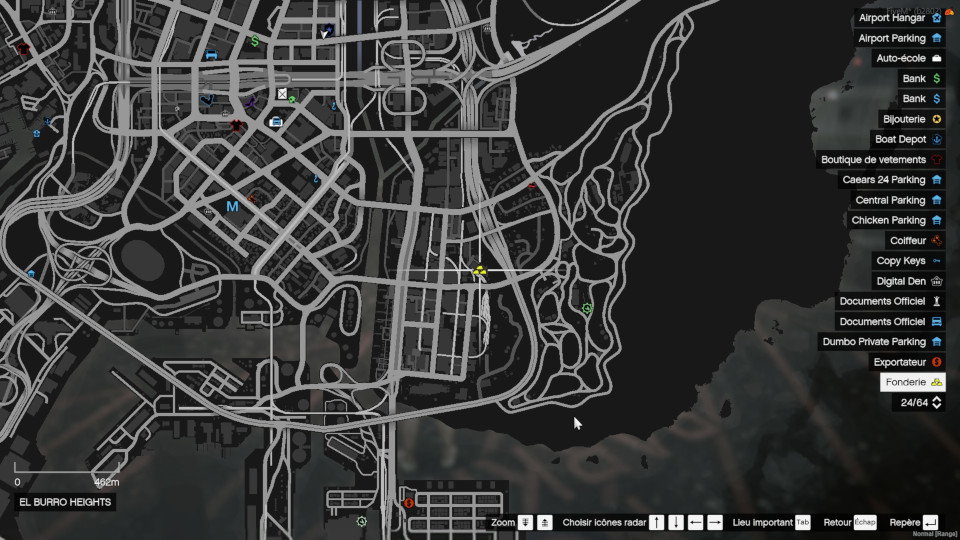
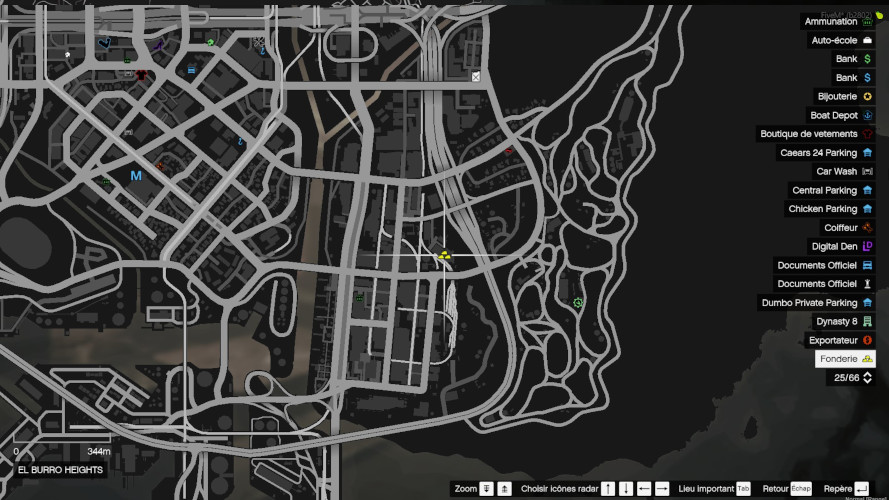
ajout des blips et suppression images dans guide du débutant

diff --git a/html/infos.html b/html/infos.html
@@ -57,65 +57,59 @@
           <p>
             La carte d'identité est obligatoire, ne pas l'avoir sur soi lors d'un contrôle de police
             peut mener à une amende. <br />Vous pouvez la récupérer au
-            <span class="important">Gouvernement</span>.
+            <span class="important">Gouvernement</span
+            ><img src="../style/images/tuto/gouvernement.png" alt="blip du Gouvernement" />.
           </p>
-
-          <!-- <img src="../style/images/tuto/cni.jpg" alt="Récupérer sa carte d'identité" /> -->
-
           <h4>Acheter un téléphone</h4>
-          <p>Vous pouvez acheter un téléphone à la boutique "Digital Den" au niveau de la plage.</p>
-
-          <img src="../style/images/tuto/tel.jpg" alt="Acheter un téléphone" />
-
+          <p>
+            Vous pouvez acheter un téléphone à la boutique
+            <span class="important">"Digital Den"</span>
+            <img src="../style/images/tuto/shop.png" alt="blip d'une boutique" />.
+          </p>
           <h4>Trouver un petit boulot</h4>
-          <p>Vous pouvez vous faire de l'argent grâce à la mine ou au centre de recyclage.</p>
           <h5>Miner & fondre les minerais</h5>
           <p>
-            Vous pouvez trouver des ressources à la mine puis fondre les minerais à la fonderie.
+            Vous pouvez trouver des ressources à la <span class="important">mine</span>
+            <img src="../style/images/tuto/mine.png" alt="blip de la mine" /> puis fondre les
+            minerais à la <span class="important">fonderie</span>
+            <img src="../style/images/tuto/fonderie.png" alt="blip de la fonderie" /> .
           </p>
-          <figure>
-            <img src="../style/images/tuto/mine.jpg" alt="Travailler à la mine" />
-            <figcaption>Travailler à la mine</figcaption>
-          </figure>
-          <figure>
-            <img src="../style/images/tuto/fonderie.jpg" alt="Aller à la fonderie" />
-            <figcaption>Fondre les minerais à la fonderie</figcaption>
-          </figure>
-          <figure>
-            <img src="../style/images/tuto/recyclage.jpg" alt="centre de recyclage" />
-            <figcaption>Travailler au centre de recyclage</figcaption>
-          </figure>
+          <h5>Recycler des matériaux</h5>
+          <p>
+            Vous pouvez également vous faire de l'argent en recyclant des matériaux.
+            <br />Dans un premier temps il vous faudra <span class="important">recycler</span>
+            <img src="../style/images/tuto/recyclage.png" alt="blip du lieu recyclage" /> des
+            matériaux. <br />Ensuite, vous devrez les recycler au
+            <span class="important">centre de recyclage</span>
+            <img
+              src="../style/images/tuto/traitement-recyclage.png"
+              alt="blip du lieu 'traitement de recyclage'"
+            />. <br />Enfin, vous pourrez vendre les matériaux recyclés à l'exportateur
+            <img src="../style/images/tuto/exportateur.png" alt="blip du lieu 'exportateur'" />
+          </p>
+
           <h4>Se restaurer</h4>
           <p>
-            Vous pouvez vous restaurer (acheter à boire et à manger) au restaurant le Horny's
-            Burgers ou dans les supérettes.
+            Vous pouvez vous restaurer (acheter à boire et à manger) au restaurant le
+            <span class="important">Horny's Burgers</span>
+            <img src="../style/images/tuto/hornys.png" alt="blip du Horny's Burgers" /> ou dans les
+            supérettes <img src="../style/images/tuto/shop.png" alt="blip d'une boutique" />.
           </p>
-          <h5>Restaurant Horny's Burgers</h5>
-          <figure>
-            <img src="../style/images/tuto/resto.jpg" alt="Horny's Burgers, restaurant" />
-            <figcaption>Restaurant Horny's Burgers</figcaption>
-          </figure>
-          <h5>Supérettes</h5>
-          <p>Aller aux supérettes pour acheter des sandwiches et de l'eau.</p>
           <h4>Se déplacer</h4>
           <p>
-            Pour vous déplacer vous pouvez louer un véhicule, prendre un taxi ou acheter un véhicule
-            (en ayant passé le permis, évidemment 😉)
+            Pour vous déplacer vous pouvez :
+            <br />-
+            <span class="important">louer un véhicule</span>
+            <img src="../style/images/tuto/rental.png" alt="blip des locations de véhicule" />,
+            <br />- prendre un <span class="important">taxi</span>
+            <img src="../style/images/tuto/taxi.png" alt="blip des taxis" />
+            <br />
+            - ou acheter un véhicule au <span class="important">concessionnaire</span>
+            <img src="../style/images/tuto/concessionnaire.png" alt="blip du concessionnaire" /> (en
+            ayant passé le <span class="important">permis</span>
+            <img src="../style/images/tuto/auto-ecole.png" alt="blip de l'Auto-école" /> évidemment
+            <span class="smiley">😉</span>)
           </p>
-          <h5>Louer un véhicule</h5>
-          <p>Point de location</p>
-          <h5>Taxi</h5>
-          <p>Appeler un taxi depuis le téléphone</p>
-          <h5>Passer son permis</h5>
-          <figure>
-            <img src="../style/images/tuto/permis.jpg" alt="Auto-école" />
-            <figcaption>Passer son permis</figcaption>
-          </figure>
-          <h5>Acheter un véhicule</h5>
-          <figure>
-            <img src="../style/images/tuto/concess.jpg" alt="Concessionnaire" />
-            <figcaption>Acheter un véhicule</figcaption>
-          </figure>
           <h4>Trouver un emploi</h4>
           <p>
             Pour trouver un emploi durable, il suffit de consulter les
@@ -123,7 +117,8 @@
               href="https://discord.com/channels/990254423164993617/996070819103002644"
               title="Salon Discord des disponibilités"
               target="_blank"
-              >recrutements sur Discord</a
+              class="important"
+              >recrutements sur Discord <i class="fa-brands fa-discord"></i></a
             >.
           </p>
           <h3>Rencontrer du monde</h3>
@@ -134,14 +129,10 @@
           </p>
           <h4>Aller à la salle de sport</h4>
           <p>
-            Vous pourrez également et probablement rencontrer du monde dans les différentes salles
-            de sport !
-            <br />Celles-ci sont visibles sur la carte grâce au blip :
+            Vous pourrez également et probablement rencontrer du monde dans les différentes
+            <span class="important">salles de sport</span>
+            <img src="../style/images/tuto/fitness.png" alt="blip des salles de sport" />.
           </p>
-          <figure>
-            <img src="../style/images/tuto/sport.jpg" alt="Salles de sport" />
-            <figcaption>Blip des salles de sport</figcaption>
-          </figure>
         </div>
       </section>
     </main>

diff --git a/html/top-serveur.html b/html/top-serveur.html
@@ -30,16 +30,23 @@
     <main>
       <section id="top-serveur">
         <div class="blur">
+          <h2>À quoi sert Top-Serveur ?</h2>
           <p>
-            Pour voter pour Zephyr Project sur top-serveur, ça se passe
+            Le site Top-Serveur recense les serveurs RP, ce qui permet de faire découvrir aux
+            joueurs les serveurs disponibles les plus appréciés.
+            <br />En votant régulièrement, vous permettez à Zephyr Project d'avoir un meilleur
+            référencement et donc, de pouvoir agrandir notre communauté ! <br />Un clic = un vote...
+            et c'est totalement gratuit ! <span class="smiley">😁</span>
+          </p>
+          <p class="important">Nous avons besoin de vous !</p>
+          <span class="top-serveur">
             <a
-              href="https://top-serveurs.net/gta/frbeqc-zephyr-project-wl-16-staff-actif-dev-constant"
+              href="https://top-serveurs.net/gta/frbeqc-zephyr-project-wl-16-staff-actif-dev-constant+"
               target="_blank"
               title="Voter pour Zephyr Project sur Top-Serveur"
-              >ici</a
+              >Soutenir Zephyr Project !</a
             >
-            !
-          </p>
+          </span>
         </div>
       </section>
       <!-- TODO : Voir avec Tof pour récupérer données top-serveur via API https://api.top-serveurs.net/documentation#api-Serveur-Get_server_s_players_ranking -->
@@ -50,5 +57,6 @@
       </a>
     </footer>
     <script src="../js/common.js"></script>
+    <!-- <script src="../js/top-serveur.js"></script> -->
   </body>
 </html>

diff --git a/style/style.css b/style/style.css
@@ -46,6 +46,13 @@ body main section .blur {
   padding-bottom: 20px;
   border-radius: 10px;
 }
+body main section .blur .important {
+  color: #6a6ad2;
+  text-shadow: 3px 3px 5px #6a6ad2;
+}
+body main section .blur .smiley {
+  text-shadow: none;
+}
 body main section h2 {
   margin-left: 20px;
   font-size: 2em;
@@ -147,11 +154,16 @@ header nav ul li {
   list-style: none;
 }
 
-body main #top-serveur .blur {
-  padding: 0;
-}
-body main #top-serveur .blur p {
-  text-align: center;
+body main section .blur .fa-discord {
+  border: 1px solid #5662f6;
+  background-color: #5662f6;
+  border-radius: 50px;
+  color: white;
+  padding-left: 6px;
+  padding-right: 5px;
+  padding-top: 7px;
+  padding-bottom: 7px;
+  margin-left: 3px;
 }
 
 main #sommaire .blur {
@@ -252,6 +264,16 @@ body main #top-serveur .blur {
 }
 body main #top-serveur .blur p {
   text-align: center;
+}
+body main #top-serveur .blur .top-serveur {
+  display: block;
+  text-align: center;
+  margin: auto;
+  height: 40px;
+  line-height: 40px;
+  width: 250px;
+  border: 1px solid #7fd6f9;
+  border-radius: 50px;
 }
 
 @media screen and (max-width: 600px) {

diff --git a/js/top-server.js b/js/top-server.js
@@ -1,0 +1,34 @@
+function getServerPlayersRanking(serverToken, type = "current") {
+  const url = `https://api.top-serveurs.net/v1/servers/${serverToken}/players-ranking?type=${type}`;
+
+  return fetch(url, {
+    headers: {
+      Accept: "application/json",
+    },
+  })
+    .then((response) => {
+      if (response.ok) {
+        return response.json();
+      } else {
+        throw new Error("Error fetching server players ranking");
+      }
+    })
+    .then((data) => {
+      return data.players;
+    })
+    .catch((error) => {
+      throw new Error(`Error fetching server players ranking: ${error.message}`);
+    });
+}
+
+// Usage of the function
+const serverToken = "NIDY2Oebejo4tIR6wRHKrnHv7nH8ZJwS7GPfpAxj";
+
+getServerPlayersRanking(serverToken)
+  .then((players) => {
+    console.log(players);
+    // Do something with the player ranking data
+  })
+  .catch((error) => {
+    console.error(error);
+  });

diff --git a/html/staff.html b/html/staff.html
@@ -51,7 +51,7 @@
           <h2>Administrateurs</h2>
           <div class="staff">
             <h3>Dwen</h3>
-            <img src="../style/images/staff/staff.png" alt="Logo de Zephyr Project" />
+            <img src="../style/images/staff/dwen.jpg" alt="Logo de Zephyr Project" />
           </div>
           <div class="staff-reversed">
             <h3>Le Bloob</h3>
@@ -59,7 +59,7 @@
           </div>
           <div class="staff">
             <h3>Sklator</h3>
-            <img src="../style/images/staff/sklator.jpg" alt="Avatar de Sklator" />
+            <img src="../style/images/staff/sklator.png" alt="Avatar de Sklator" />
           </div>
         </div>
       </section>

diff --git a/style/Layouts/Pages/_infos.scss b/style/Layouts/Pages/_infos.scss
@@ -3,11 +3,18 @@
 
 body {
   main {
-    #top-serveur {
+    section {
       .blur {
-        padding: 0;
-        p {
-          text-align: center;
+        .fa-discord {
+          border: 1px solid $discord;
+          background-color: $discord;
+          border-radius: 50px;
+          color: white;
+          padding-left: 6px;
+          padding-right: 5px;
+          padding-top: 7px;
+          padding-bottom: 7px;
+          margin-left: 3px;
         }
       }
     }

diff --git a/style/Layouts/Pages/_top-serveur.scss b/style/Layouts/Pages/_top-serveur.scss
@@ -9,6 +9,16 @@ body {
         p {
           text-align: center;
         }
+        .top-serveur {
+          display: block;
+          text-align: center;
+          margin: auto;
+          height: 40px;
+          line-height: 40px;
+          width: 250px;
+          border: 1px solid $border;
+          border-radius: 50px;
+        }
       }
     }
   }

diff --git a/style/Layouts/_body.scss b/style/Layouts/_body.scss
@@ -26,6 +26,13 @@ body {
         padding-top: 2px;
         padding-bottom: 20px;
         border-radius: 10px;
+        .important {
+          color: $quatre;
+          text-shadow: 3px 3px 5px $quatre;
+        }
+        .smiley {
+          text-shadow: none;
+        }
       }
       h2 {
         margin-left: 20px;

diff --git a/style/Utils/_variables.scss b/style/Utils/_variables.scss
@@ -15,3 +15,4 @@ $text: $deux;
 $border: #7fd6f9;
 $border-shadow: #4485e2;
 $textshadow: $six;
+$discord: #5662f6;
